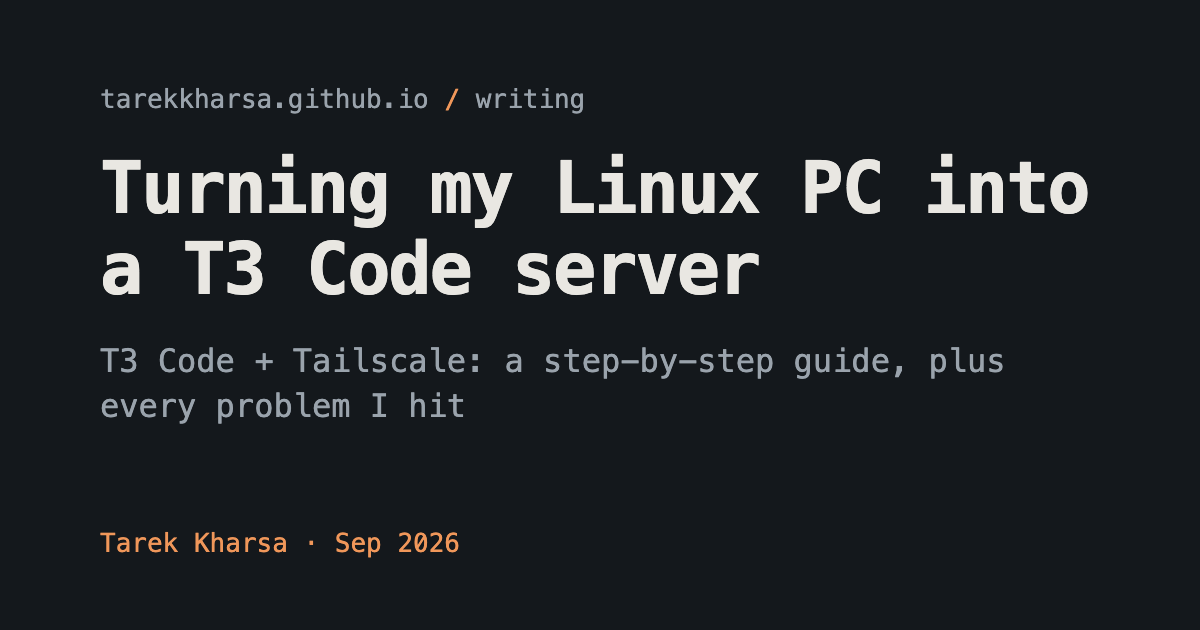
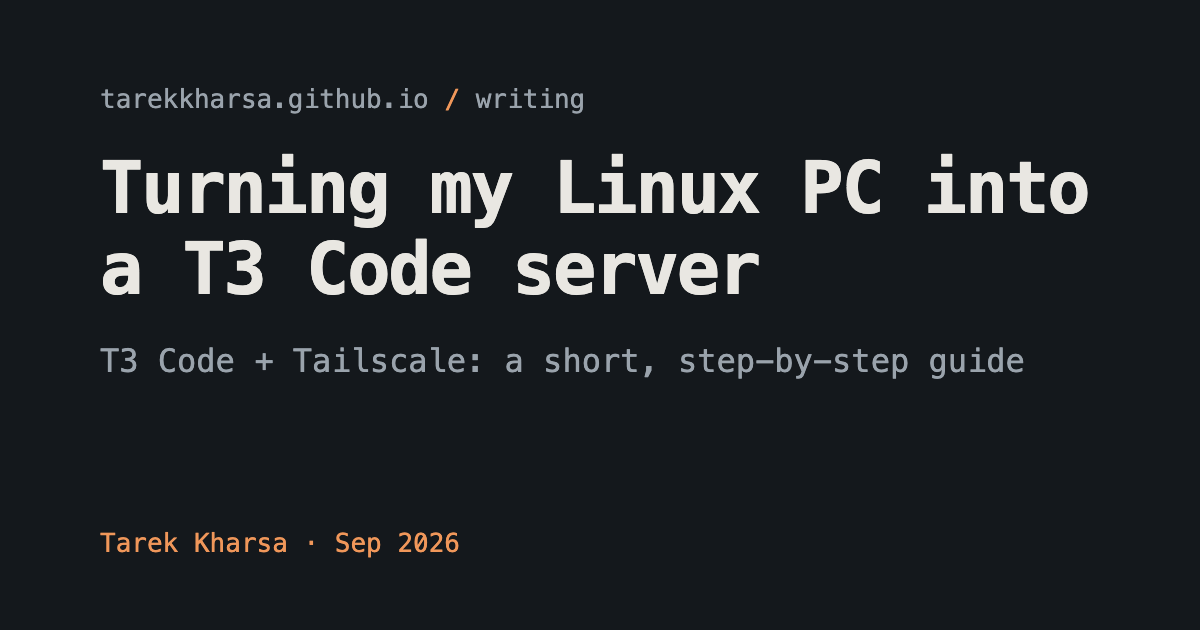
post: tighten T3 Code + Tailscale guide to setup essentials
Drop the hardware story, self-inflicted errors, and duplicated
troubleshooting; keep the setup steps and the connection fixes.

Changed region(s): [[0.4625, 0.5429, 0.8633, 0.6032], [0.0617, 0.6333, 0.4008, 0.6635]]

diff --git a/posts/t3-code-tailscale-home-server.html b/posts/t3-code-tailscale-home-server.html
@@ -4,7 +4,7 @@
 <meta charset="utf-8">
 <meta name="viewport" content="width=device-width, initial-scale=1">
 <title>Turning my Linux PC into a T3 Code server — Tarek Kharsa</title>
-<meta name="description" content="Run T3 Code on a Linux PC and reach it privately from your laptop and phone with Tailscale — plus every problem I hit and how I fixed it.">
+<meta name="description" content="Run T3 Code on a Linux PC and reach it privately from your laptop and phone with Tailscale. A short, step-by-step guide.">
 <meta name="author" content="Tarek Kharsa">
 <meta name="color-scheme" content="light dark">
 <meta name="theme-color" content="#FBFAF7" media="(prefers-color-scheme: light)">
@@ -16,7 +16,7 @@
 <meta property="og:site_name" content="Tarek Kharsa">
 <meta property="og:locale" content="en_US">
 <meta property="og:title" content="Turning my Linux PC into a T3 Code server">
-<meta property="og:description" content="Run T3 Code on a Linux PC and reach it privately from your laptop and phone with Tailscale — plus every problem I hit and how I fixed it.">
+<meta property="og:description" content="Run T3 Code on a Linux PC and reach it privately from your laptop and phone with Tailscale. A short, step-by-step guide.">
 <meta property="og:type" content="article">
 <meta property="og:url" content="https://tarekkharsa.github.io/posts/t3-code-tailscale-home-server.html">
 <meta property="og:image" content="https://tarekkharsa.github.io/assets/og/t3-code-tailscale-home-server.png">
@@ -28,14 +28,14 @@
 <meta name="twitter:card" content="summary_large_image">
 <meta name="twitter:creator" content="@tarekkh1997">
 <meta name="twitter:title" content="Turning my Linux PC into a T3 Code server">
-<meta name="twitter:description" content="Run T3 Code on a Linux PC and reach it privately from your laptop and phone with Tailscale — plus every problem I hit and how I fixed it.">
+<meta name="twitter:description" content="Run T3 Code on a Linux PC and reach it privately from your laptop and phone with Tailscale. A short, step-by-step guide.">
 <meta name="twitter:image" content="https://tarekkharsa.github.io/assets/og/t3-code-tailscale-home-server.png">
 <script type="application/ld+json">
 {
   "@context": "https://schema.org",
   "@type": "BlogPosting",
   "headline": "Turning my Linux PC into a T3 Code server",
-  "description": "Run T3 Code on a Linux PC and reach it privately from your laptop and phone with Tailscale — plus every problem I hit and how I fixed it.",
+  "description": "Run T3 Code on a Linux PC and reach it privately from your laptop and phone with Tailscale. A short, step-by-step guide.",
   "image": "https://tarekkharsa.github.io/assets/og/t3-code-tailscale-home-server.png",
   "datePublished": "2026-09-28T00:00:00Z",
   "dateModified": "2026-09-28T00:00:00Z",
@@ -168,14 +168,6 @@
   }
   blockquote p { margin: 0; }
 
-  .table-wrap { overflow-x: auto; margin: 0 0 1.2rem; }
-  table { border-collapse: collapse; width: 100%; min-width: 36rem; font-size: 0.9rem; }
-  th, td { text-align: left; vertical-align: top; padding: 0.55rem 0.7rem; border-bottom: 1px solid var(--line); }
-  th { font-family: var(--mono); font-size: 0.78rem; color: var(--muted); font-weight: 600; }
-
-  .checklist { list-style: none; padding-left: 0; }
-  .checklist input { margin: 0 0.55rem 0 0; vertical-align: middle; accent-color: var(--accent); }
-
   footer {
     margin-top: 4rem;
     padding-top: 1.4rem;
@@ -200,109 +192,36 @@
     <header>
       <p class="meta"><time datetime="2026-09-28">Sep 28, 2026</time></p>
       <h1>How I Turned My Linux PC into a T3 Code Server I Can Use from Anywhere</h1>
-      <p class="subtitle"><em>A friendly, step-by-step guide, plus every problem I hit and how I fixed it.</em></p>
+      <p class="subtitle"><em>A short, step-by-step guide.</em></p>
     </header>
 
     <hr>
 
-    <h2>What we're building</h2>
-    <p>I have a powerful Linux PC at my desk. I wanted to use it from my <strong>MacBook</strong> and my <strong>Android phone</strong>, wherever I am, to run coding agents with <a href="https://github.com/pingdotgg/t3code">T3 Code</a>.</p>
-    <p>The plan was simple:</p>
-    <ul>
-      <li>🖥 <strong>The PC</strong> runs T3 Code in the background, all the time.</li>
-      <li>🔒 <strong>Tailscale</strong> connects my devices privately, so nothing is open to the public internet.</li>
-      <li>💻📱 <strong>My laptop and phone</strong> connect to the PC through Tailscale.</li>
-    </ul>
-    <p>The basic setup takes about 15 minutes. It took me a whole morning, because a few things went wrong. I've written them all down so you don't have to go through the same pain.</p>
-    <p><strong>What you need:</strong></p>
+    <p>My Linux PC runs <a href="https://github.com/pingdotgg/t3code">T3 Code</a> as a background service, all the time. <a href="https://tailscale.com">Tailscale</a> connects it privately to my MacBook and my Android phone. Nothing is open to the public internet.</p>
+    <p><strong>You need:</strong></p>
     <ul>
       <li>A Linux PC (I used Ubuntu)</li>
-      <li>Node.js installed</li>
-      <li>A free <a href="https://tailscale.com">Tailscale</a> account, with Tailscale installed on the PC <em>and</em> on every device you want to connect from</li>
+      <li>Node.js</li>
+      <li>Tailscale on the PC <em>and</em> on every device you want to connect from</li>
     </ul>
 
-    <hr>
-
-    <h2>Step 1: Install T3 Code on the PC</h2>
-    <p>Open a terminal and run:</p>
+    <h2>Step 1: Install T3 Code as a service</h2>
 <pre><code>npm i -g t3
-t3 service install</code></pre>
-    <p>The first line installs T3 Code. The second sets it up as a <strong>background service</strong>, so it keeps running even when you close the app.</p>
-    <p>We also want it to start when the PC boots, <strong>even if nobody logs in</strong>:</p>
-<pre><code>loginctl enable-linger $USER</code></pre>
-    <p>Check that it's working:</p>
+t3 service install
+loginctl enable-linger $USER</code></pre>
+    <p>This installs T3 Code, runs it as a background service, and starts it at boot, even if nobody logs in. Check it:</p>
 <pre><code>t3 service status</code></pre>
-    <p>You should see <code>Status: installed</code>. ✅</p>
+    <p>You should see <code>Status: installed</code>.</p>
 
     <hr>
 
-    <h2>Step 2: Make it reachable through Tailscale</h2>
-    <p>T3 Code has Tailscale support built in. It gives your PC a private web address like:</p>
-<pre><code>https://my-pc.tailXXXXX.ts.net</code></pre>
-    <p>Only your own devices on Tailscale can open it.</p>
-
-    <h3>2a. Give yourself permission (one time)</h3>
-    <p>By default, only the admin (root) can change these Tailscale settings. Allow your own user:</p>
+    <h2>Step 2: Turn on Tailscale Serve</h2>
+    <p>First, let your own user manage Tailscale Serve:</p>
 <pre><code>sudo tailscale set --operator=$USER</code></pre>
-    <blockquote><p>😬 <strong>If you skip this</strong>, you'll get: <code>Access denied: serve config denied</code></p></blockquote>
-
-    <h3>2b. Turn on Tailscale in the T3 service</h3>
-    <p>We'll add a small settings file. Doing it this way means T3 updates won't wipe it out.</p>
+    <p>Then add a small settings file (a systemd drop-in) to the T3 service:</p>
 <pre><code>mkdir -p ~/.config/systemd/user/t3code.service.d
 
-cat &gt; ~/.config/systemd/user/t3code.service.d/tailscale.conf &lt;&lt;'EOF'
-[Service]
-Environment=T3CODE_TAILSCALE_SERVE=1
-EOF
-
-systemctl --user daemon-reload
-systemctl --user restart t3code</code></pre>
-
-    <h3>2c. Check it</h3>
-<pre><code>tailscale serve status</code></pre>
-    <p>You should see your <code>https://...ts.net</code> address. 🎉</p>
-    <blockquote><p>💡 <strong>Tip:</strong> The very first time, it can take a few seconds to set up the HTTPS certificate. If the address doesn't load right away, wait a moment and try again.</p></blockquote>
-
-    <hr>
-
-    <h2>Step 3: Connect your laptop and phone</h2>
-    <p>On the PC, create a pairing code:</p>
-<pre><code>t3 pair --tailscale</code></pre>
-    <p>It shows a <strong>QR code</strong> and a <strong>link</strong>. In the T3 Code app on your laptop or phone:</p>
-    <ol>
-      <li>Go to <strong>Add Environment → Remote link</strong></li>
-      <li>Paste the full link, <strong>or</strong> tap the 📷 camera icon and scan the QR code</li>
-      <li>Tap <strong>Add environment</strong></li>
-    </ol>
-    <blockquote><p>⏰ <strong>The code expires after 5 minutes.</strong> If you need more time, use <code>t3 pair --tailscale --ttl 1h</code>.</p></blockquote>
-
-    <h3>😬 Problem: "Transport error" when adding the environment</h3>
-    <p>It looked like this:</p>
-<pre><code>Failed to fetch remote environment endpoint https://...ts.net/.well-known/t3/environment
-(HttpClientError: Transport error ...)</code></pre>
-    <p>This just means <strong>your device can't reach the PC</strong>. Check these, in order:</p>
-    <ol>
-      <li><strong>Is Tailscale on?</strong> Open the Tailscale app on your laptop or phone and make sure it says <em>Connected</em>.</li>
-      <li><strong>On a Mac:</strong> Tailscale menu → Settings → turn on <strong>Use Tailscale DNS</strong>.</li>
-      <li><strong>Is the code still fresh?</strong> Make a new one if it's been more than 5 minutes.</li>
-    </ol>
-
-    <h3>😬 Problem: Android still won't connect</h3>
-    <p>This one got me. Tailscale was connected, but my phone still showed the same error.</p>
-    <p><strong>The fix:</strong> on your phone, go to <strong>Settings → Private DNS</strong> and set it to <strong>Off</strong>.</p>
-    <p>"Automatic" did <strong>not</strong> work for me, only <strong>Off</strong>. Private DNS stops your phone from finding the Tailscale address.</p>
-
-    <hr>
-
-    <h2>Step 4: Make sure your coding agents work</h2>
-    <p>In the app, I saw this message:</p>
-    <blockquote><p>❌ <em>Could not start Codex CLI (codex).</em></p></blockquote>
-    <p>There were two reasons.</p>
-    <p><strong>Reason 1: Codex wasn't actually installed.</strong> Having the ChatGPT or Codex desktop app is <strong>not</strong> enough. You need the command-line tool:</p>
-<pre><code>npm i -g @openai/codex
-codex login status</code></pre>
-    <p><strong>Reason 2: the background service couldn't find it.</strong> Background services only look in a few system folders, not where Node tools get installed. Add your folders to the same settings file from Step 2b:</p>
-<pre><code>cat &gt; ~/.config/systemd/user/t3code.service.d/tailscale.conf &lt;&lt;EOF
+cat &gt; ~/.config/systemd/user/t3code.service.d/tailscale.conf &lt;&lt;EOF
 [Service]
 Environment=T3CODE_TAILSCALE_SERVE=1
 Environment=PATH=$HOME/.local/bin:$(dirname $(which node)):/usr/local/bin:/usr/bin:/bin:/snap/bin
@@ -310,126 +229,55 @@ EOF
 
 systemctl --user daemon-reload
 systemctl --user restart t3code</code></pre>
-    <blockquote><p>💡 If you later switch Node versions with <code>nvm</code>, run this again so the path stays correct.</p></blockquote>
+    <p>This file survives T3 updates. The <code>PATH</code> line matters because the service can't otherwise see where Node CLIs (like Codex) are installed. If you switch Node versions with <code>nvm</code>, run it again.</p>
+    <p>Check it:</p>
+<pre><code>tailscale serve status</code></pre>
+    <p>You should see a private address like <code>https://my-pc.tailXXXXX.ts.net</code>. The first HTTPS certificate can take a few seconds, so if it doesn't load right away, wait and try again.</p>
 
     <hr>
 
-    <h2>Step 5: Updating T3 Code (the tricky part)</h2>
+    <h2>Step 3: Pair your laptop and phone</h2>
+    <p>On the PC:</p>
+<pre><code>t3 pair --tailscale</code></pre>
+    <p>In the T3 Code app, go to <strong>Add Environment → Remote link</strong>, then paste the link or scan the QR code.</p>
+    <blockquote><p>The code expires after 5 minutes. Need more time? Use <code>t3 pair --tailscale --ttl 1h</code>.</p></blockquote>
 
-    <h3>😬 Problem: "This release requires a newer T3 Code service launcher"</h3>
-    <p>I clicked <strong>Update</strong> from my Mac, and it failed with that message.</p>
-    <p><strong>Why:</strong> my Mac app was on the <strong>nightly</strong> (beta) version, but the PC was on <strong>stable</strong>. Some updates can't be installed from another device; they have to be done on the PC itself.</p>
-    <p><strong>The fix:</strong> run the update <strong>on the PC</strong>, using the same channel as your other devices:</p>
+    <h3>Can't connect?</h3>
+    <p>If you see something like this, your device can't reach the PC:</p>
+<pre><code>Failed to fetch remote environment endpoint ... (HttpClientError: Transport error ...)</code></pre>
+    <p>Check these, in order:</p>
+    <ol>
+      <li>Tailscale is <em>Connected</em> on the device.</li>
+      <li><strong>Mac:</strong> Tailscale menu → Settings → turn on <strong>Use Tailscale DNS</strong>.</li>
+      <li><strong>Android:</strong> Settings → Private DNS → <strong>Off</strong>. "Automatic" didn't work for me.</li>
+      <li>The pairing code hasn't expired.</li>
+    </ol>
+
+    <hr>
+
+    <h2>Step 4: Install your agent CLIs</h2>
+    <p>T3 Code runs agents through their command-line tools, so install them on the PC. For Codex:</p>
+<pre><code>npm i -g @openai/codex
+codex login status</code></pre>
+    <p>The <code>PATH</code> line from Step 2 lets the service find them.</p>
+
+    <hr>
+
+    <h2>Step 5: Keep it reachable</h2>
+    <p>Stop the PC from sleeping:</p>
+<pre><code>sudo systemctl mask sleep.target suspend.target hibernate.target hybrid-sleep.target</code></pre>
+    <p>Tailscale logins expire after about 6 months. In the <a href="https://login.tailscale.com/admin/machines">Tailscale admin console</a>, click <strong>⋯</strong> next to your PC and choose <strong>Disable key expiry</strong>.</p>
+
+    <hr>
+
+    <h2>Updating T3 Code</h2>
+    <p><strong>Golden rule:</strong> keep the PC, the <code>t3</code> command and all your apps on the <strong>same channel</strong>, and run updates on the PC itself:</p>
 <pre><code>t3 update --channel nightly --yes</code></pre>
     <p><em>(Use <code>stable</code>, <code>preview</code> or <code>nightly</code>, whichever your other devices use.)</em></p>
 
-    <h3>😬 Problem: after updating, T3 wouldn't start at all</h3>
-    <p>The log kept saying:</p>
-<pre><code>Service state is invalid or unsupported.</code></pre>
-    <p><strong>Why:</strong> I ran the update with the <em>old</em> version of the <code>t3</code> command. It saved a settings file in an old format that the new version doesn't understand.</p>
-    <p><strong>The fix:</strong></p>
-    <ol>
-      <li>Open <code>~/.t3/runtime/service-state.json</code> (make a backup copy first!)</li>
-      <li>Change <code>"protocol": 2</code> to <code>"protocol": 3</code></li>
-      <li>Restart the service and update your <code>t3</code> command so this doesn't happen again:</li>
-    </ol>
-<pre><code>systemctl --user reset-failed t3code
-systemctl --user start t3code
-npm i -g t3@nightly</code></pre>
-    <blockquote><p>✅ <strong>Golden rule:</strong> keep the PC, the <code>t3</code> command and all your apps on the <strong>same channel</strong>.</p></blockquote>
-
     <hr>
 
-    <h2>Step 6: Make your PC act like a real server</h2>
-    <p>A normal PC likes to go to sleep and wait for someone to press buttons. A server shouldn't. Here's what I changed.</p>
-
-    <h3>Stop it from sleeping</h3>
-<pre><code>sudo systemctl mask sleep.target suspend.target hibernate.target hybrid-sleep.target
-gsettings set org.gnome.settings-daemon.plugins.power sleep-inactive-ac-type 'nothing'</code></pre>
-
-    <h3>Turn off Wi-Fi power saving</h3>
-    <p>It can make remote connections laggy or drop them.</p>
-<pre><code>printf '[connection]\nwifi.powersave = 2\n' | sudo tee /etc/NetworkManager/conf.d/wifi-powersave-off.conf</code></pre>
-
-    <h3>😬 Problem: after a crash, it got stuck at the boot menu</h3>
-    <p>After an unexpected shutdown, Ubuntu shows a boot menu and <strong>waits forever</strong> for someone to press Enter. If you're not at home, your server is stuck offline.</p>
-    <p><strong>The fix:</strong> tell it to continue on its own after 5 seconds:</p>
-<pre><code>echo 'GRUB_RECORDFAIL_TIMEOUT=5' | sudo tee /etc/default/grub.d/99-autoboot.cfg
-sudo update-grub</code></pre>
-
-    <h3>Don't let Tailscale log you out</h3>
-    <p>Tailscale logins expire after about 6 months. For your server, go to the <a href="https://login.tailscale.com/admin/machines">Tailscale admin console</a>, click <strong>⋯</strong> next to your PC, and choose <strong>Disable key expiry</strong>.</p>
-    <blockquote><p>💡 <strong>Small tip:</strong> don't save helper scripts in <code>/tmp</code>. It's cleared on every reboot. I learned that the hard way.</p></blockquote>
-
-    <hr>
-
-    <h2>Step 7: The mystery freezes (spoiler: broken hardware)</h2>
-    <p>Everything was set up, but my PC kept <strong>freezing and restarting randomly</strong>. Here's how I found out why. The same steps work for any Linux machine that "just dies."</p>
-
-    <h3>1. Check how it shut down</h3>
-<pre><code>journalctl -b -1 -n 30</code></pre>
-    <p>This shows the last lines from before the restart. A normal shutdown ends with shutdown messages. Mine just <strong>stopped mid-sentence</strong>, a sign of a hardware problem.</p>
-
-    <h3>2. Put some load on it</h3>
-<pre><code>sudo apt install stress-ng
-stress-ng --cpu $(nproc) --verify --timeout 10m</code></pre>
-    <p>Within seconds, random programs started crashing.</p>
-
-    <h3>3. Look for a pattern</h3>
-<pre><code>journalctl -k | grep -oE 'likely on CPU [0-9]+' | sort | uniq -c</code></pre>
-    <p>My result:</p>
-<pre><code>4 likely on CPU 21</code></pre>
-    <p><strong>Every single crash happened on the same CPU core.</strong> Different programs, same core, so the core itself was broken. My CPU (an Intel 14th gen) is known for this problem.</p>
-
-    <h3>4. Switch off the bad core</h3>
-<pre><code>echo 0 | sudo tee /sys/devices/system/cpu/cpu21/online</code></pre>
-    <p>I also added a small startup service so it stays off after every reboot. Then I tested again:</p>
-    <ul>
-      <li>✅ Every remaining core tested one by one: <strong>all passed</strong></li>
-      <li>✅ 15 minutes at full power, CPU and memory: <strong>zero errors, zero crashes</strong></li>
-    </ul>
-    <p>Losing one core out of 28 costs about 3–4% of performance. You won't notice it. But a broken core can get worse, so <strong>the real fix is replacing the CPU</strong>. Intel offers an extended warranty for affected 13th/14th-gen chips.</p>
-
-    <hr>
-
-    <h2>Quick fixes cheat sheet 🧾</h2>
-    <div class="table-wrap">
-      <table>
-        <thead>
-          <tr><th>What you see</th><th>What it means</th><th>How to fix it</th></tr>
-        </thead>
-        <tbody>
-          <tr><td><code>Access denied: serve config denied</code></td><td>No permission for Tailscale settings</td><td><code>sudo tailscale set --operator=$USER</code></td></tr>
-          <tr><td><code>Transport error</code> when pairing</td><td>Your device can't reach the PC</td><td>Turn on Tailscale on the device, use a fresh code</td></tr>
-          <tr><td>Android still can't connect</td><td>Private DNS is blocking it</td><td>Phone Settings → Private DNS → <strong>Off</strong></td></tr>
-          <tr><td><code>Could not start Codex CLI</code></td><td>Codex missing, or service can't find it</td><td>Install Codex + add the <code>PATH</code> line</td></tr>
-          <tr><td><code>requires a newer service launcher</code></td><td>Your devices are on a newer version</td><td>Run <code>t3 update</code> on the PC with the same channel</td></tr>
-          <tr><td><code>Service state is invalid</code></td><td>Settings file in an old format</td><td>Change <code>protocol</code> to <code>3</code>, update <code>t3</code></td></tr>
-          <tr><td>Stuck at the boot menu</td><td>Ubuntu waits forever after a crash</td><td><code>GRUB_RECORDFAIL_TIMEOUT=5</code></td></tr>
-          <tr><td>Random freezes and crashes</td><td>Possibly a broken CPU core</td><td>Stress test, find the core, switch it off</td></tr>
-        </tbody>
-      </table>
-    </div>
-
-    <hr>
-
-    <h2>Final checklist ✅</h2>
-    <ul class="checklist">
-      <li><label><input type="checkbox" disabled> T3 Code runs as a service (<code>t3 service status</code>)</label></li>
-      <li><label><input type="checkbox" disabled> Your Tailscale address works (<code>tailscale serve status</code>)</label></li>
-      <li><label><input type="checkbox" disabled> Your laptop and phone are paired</label></li>
-      <li><label><input type="checkbox" disabled> Codex and Claude show as working in the app</label></li>
-      <li><label><input type="checkbox" disabled> Sleep is turned off</label></li>
-      <li><label><input type="checkbox" disabled> The boot menu doesn't wait forever</label></li>
-      <li><label><input type="checkbox" disabled> Tailscale key expiry is disabled</label></li>
-    </ul>
-
-    <hr>
-
-    <h2>Wrapping up</h2>
-    <p>Now my PC is a quiet, always-on coding server. I can start an agent from my phone on the couch and check the results on my laptop later. 🚀</p>
-    <p>Was the setup harder than expected? Yes. Was it worth it? Totally. And if your PC randomly freezes, check your CPU cores. You might be surprised, like I was.</p>
-    <p><em>Got stuck on a step? Leave a comment and I'll try to help!</em></p>
+    <p>That's it: T3 Code on my PC, from anywhere. 🚀</p>
   </article>
 
   <footer>

diff --git a/assets/og/og-post.html b/assets/og/og-post.html
@@ -24,7 +24,7 @@
 <body>
   <p class="crumb">tarekkharsa.github.io <span class="accent">/</span> writing</p>
   <h1>Turning my Linux PC into a T3 Code server</h1>
-  <p class="sub">T3 Code + Tailscale: a step-by-step guide, plus every problem I hit</p>
+  <p class="sub">T3 Code + Tailscale: a short, step-by-step guide</p>
   <div class="foot">Tarek Kharsa · Sep 2026</div>
 </body>
 </html>

diff --git a/index.html b/index.html
@@ -233,7 +233,7 @@
         <span class="lang">Sep 2026</span>
         <p>
           Running T3 Code on a home PC and reaching it privately from a laptop
-          and phone with Tailscale — plus every problem I hit on the way.
+          and phone with Tailscale.
         </p>
       </article>
     </div>
